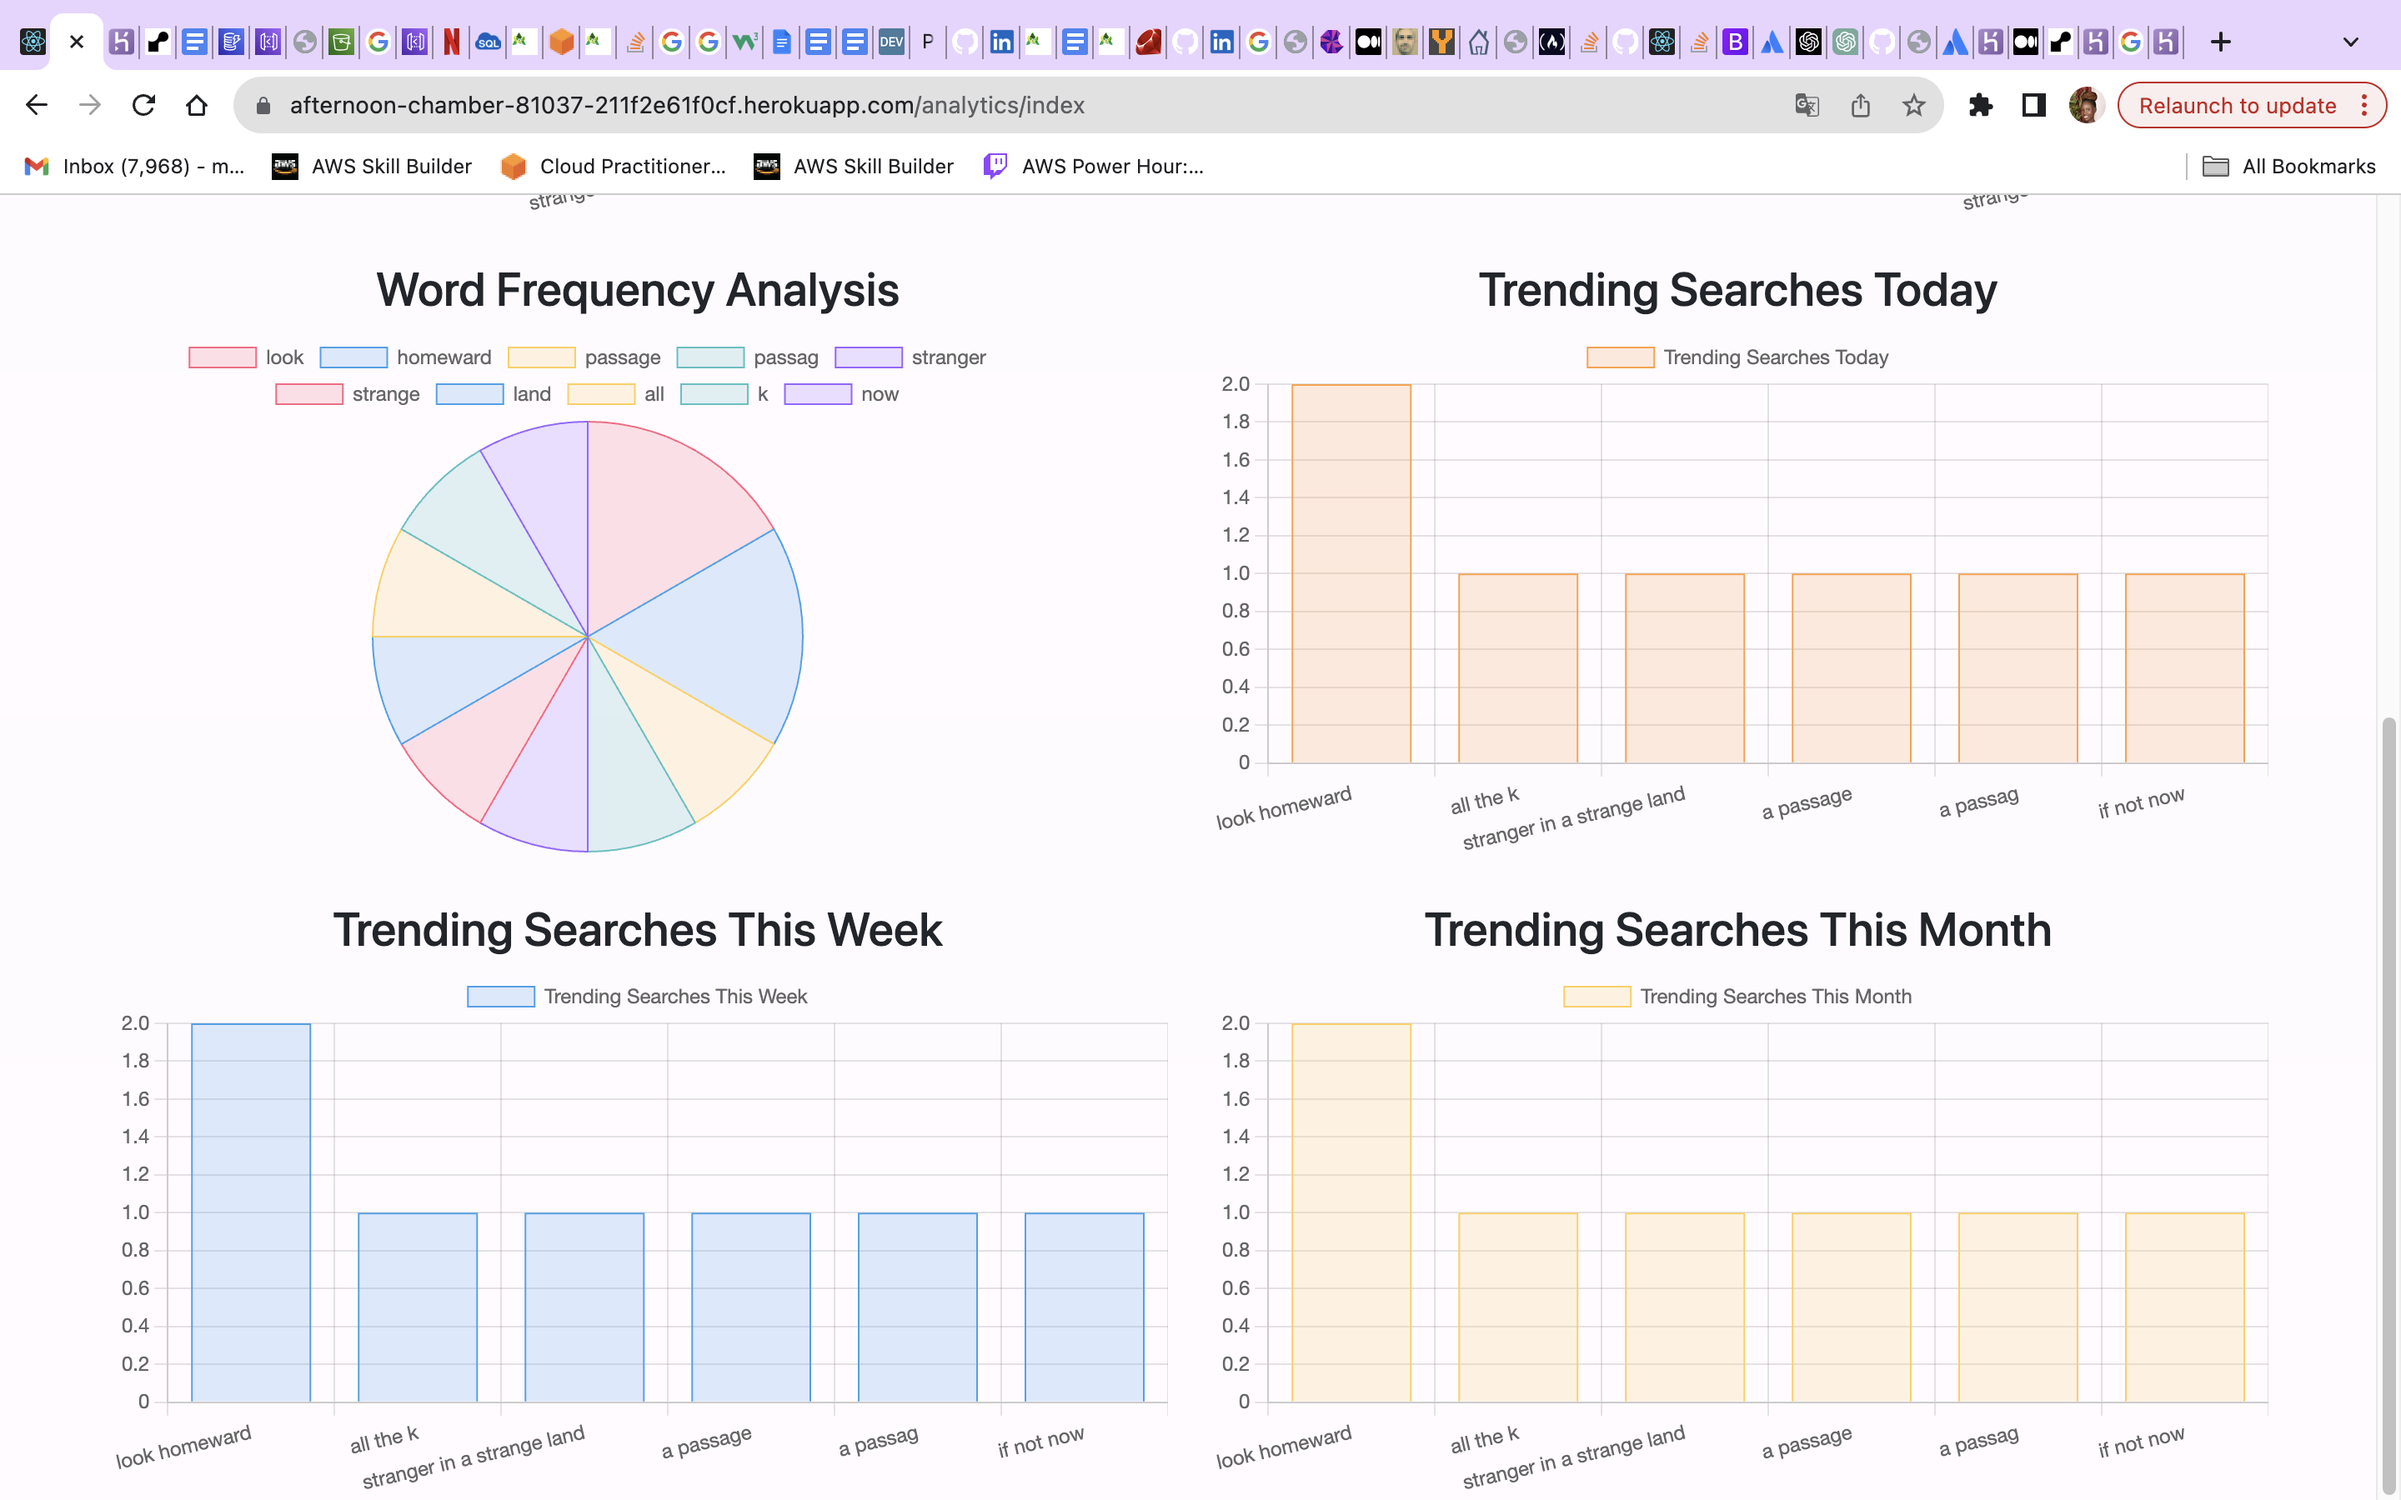
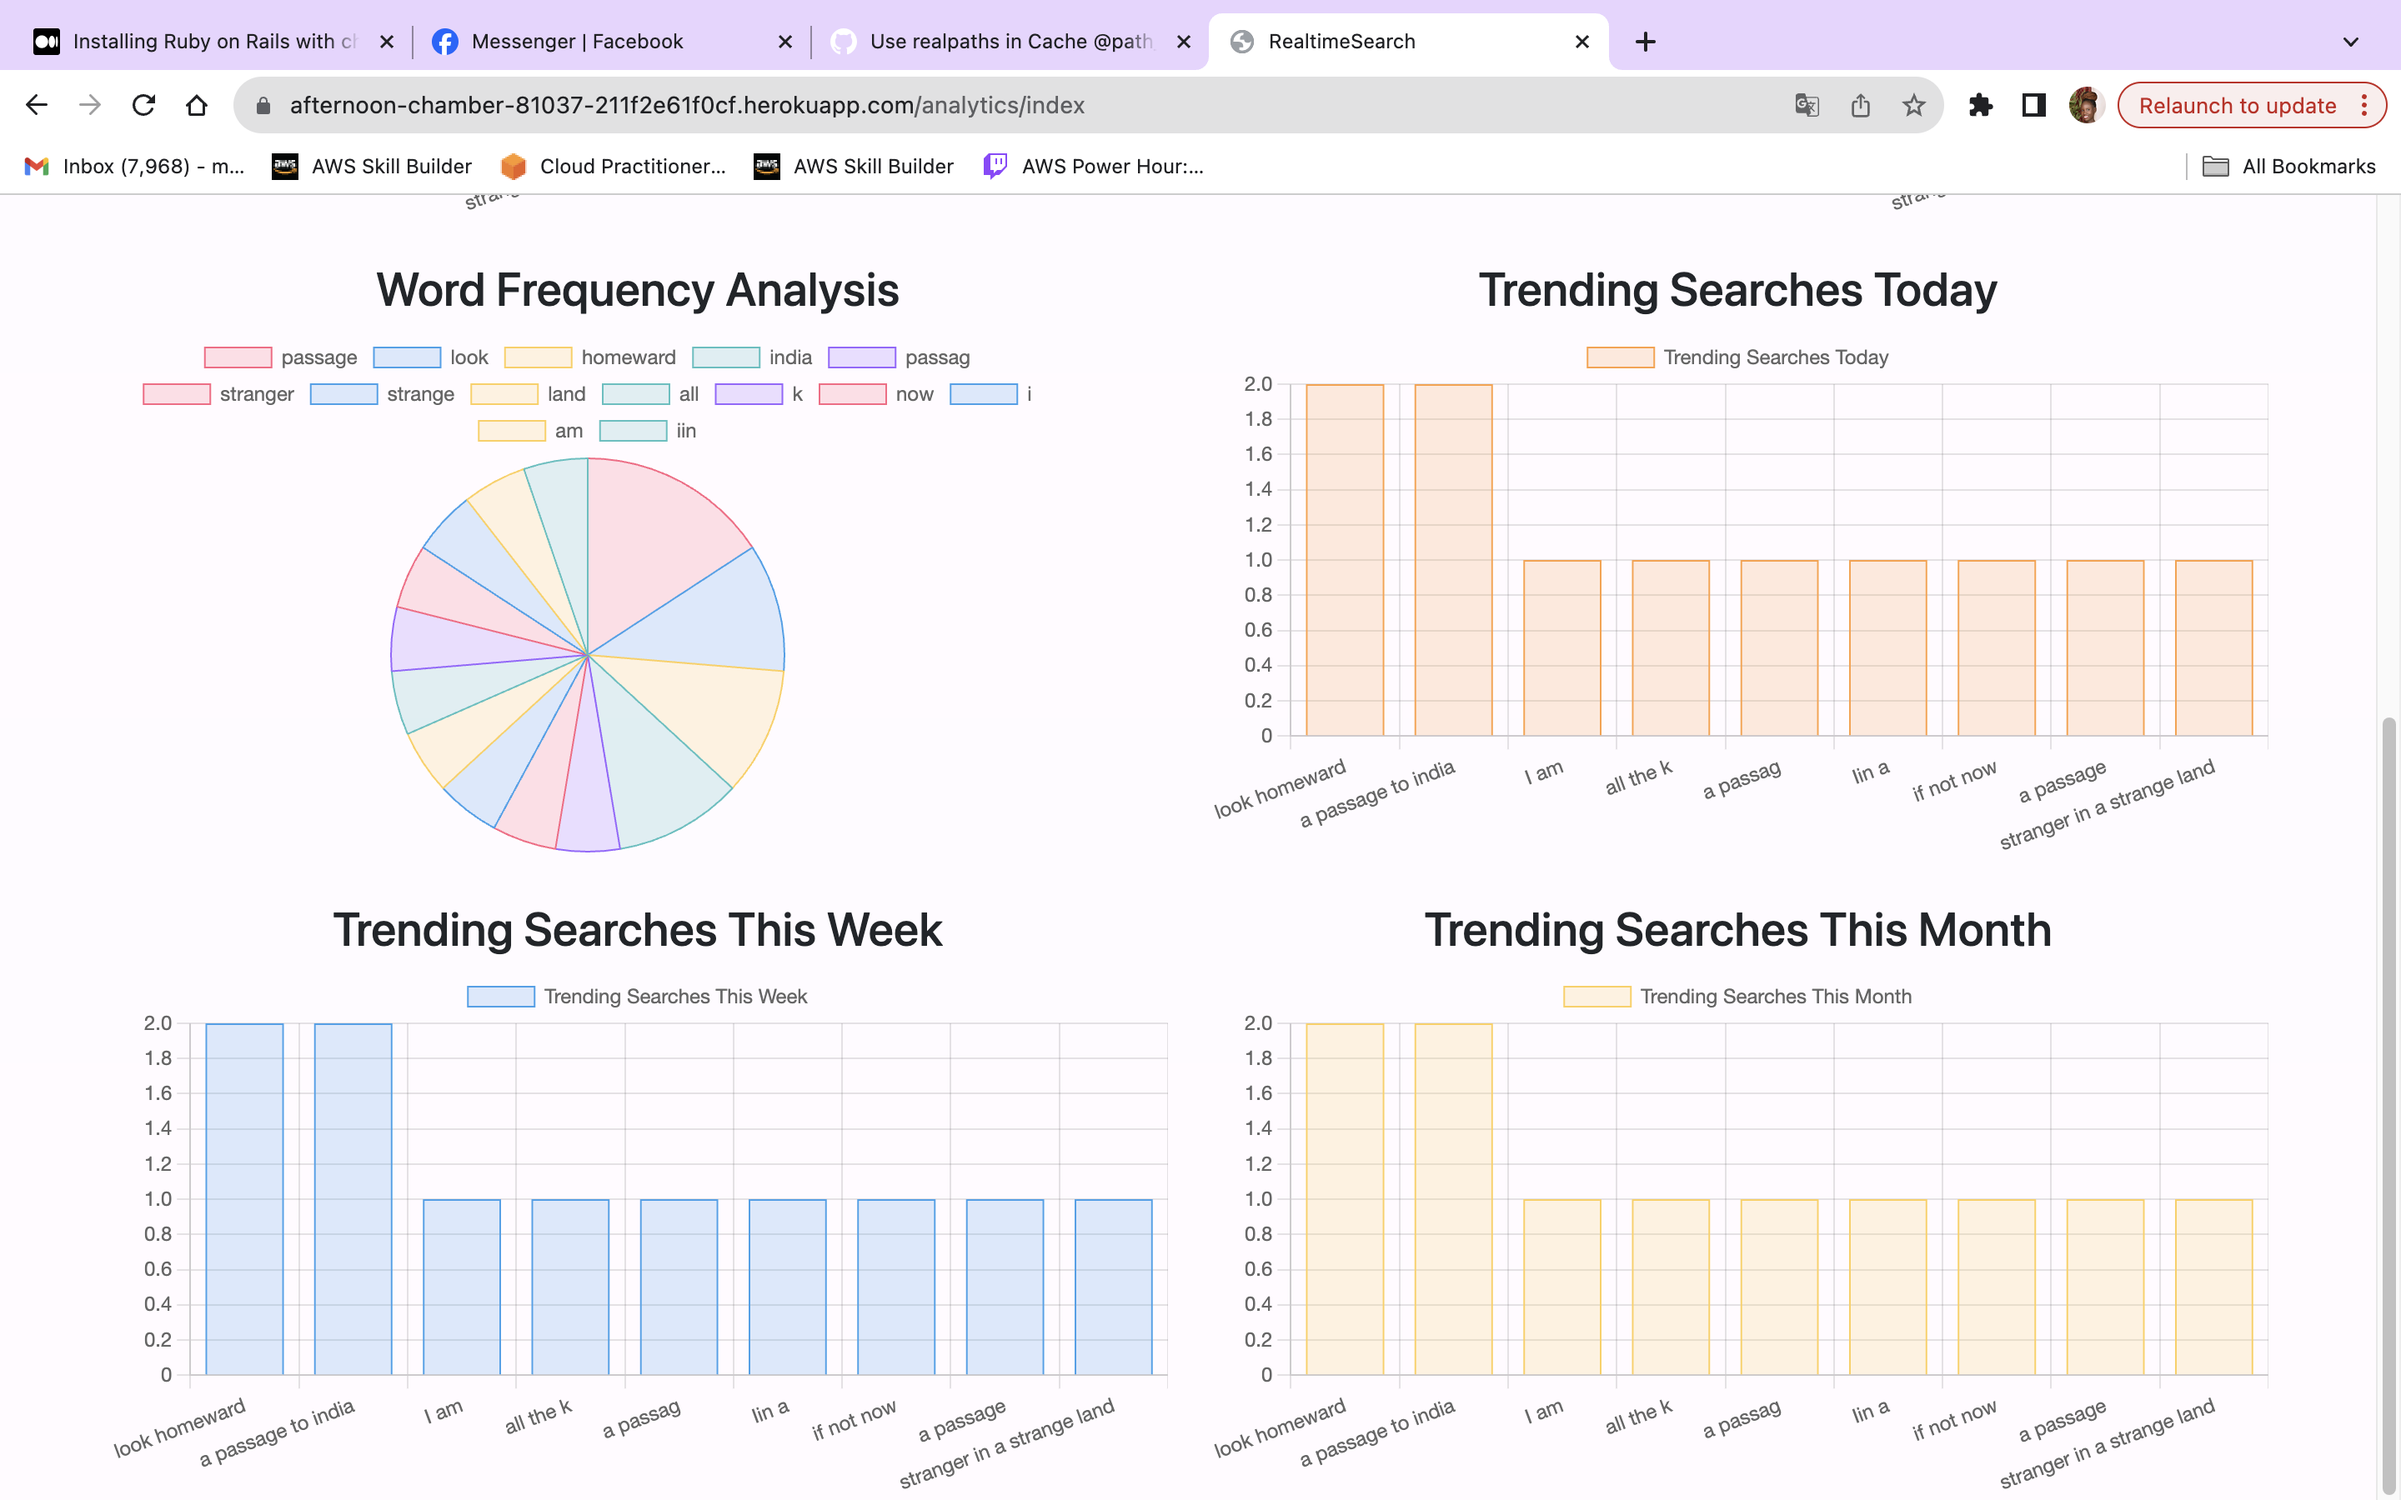
Add preview images in Readme file

diff --git a/README.md b/README.md
@@ -121,6 +121,8 @@ bundle exec rspec
     Create or update Analytic records for words longer than 2 characters to track their occurrence.
 
     This solution ensures efficient handling of searches, prevents redundant saves, and tracks word occurrences for analytics.
+
+    Note that for similar searches made in different requests, both will be saved, so results similar to those expected from a pyramid problem will be recorded. An example of this can be seen in the image below, where one person has searched for "a passag" and another has searched for "a passage", leading to the recording of very similar results. This could perhaps be an interesting problem to solve in a further development of the solution.
 ```
 
 ## App Images
